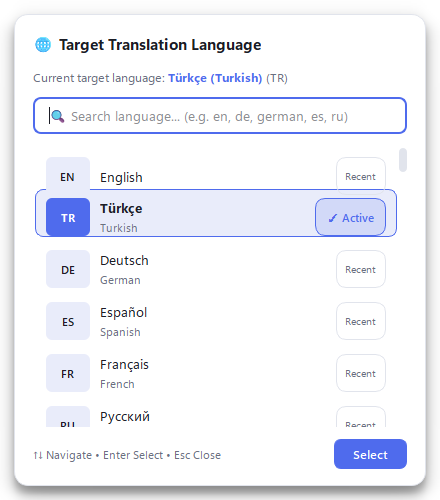
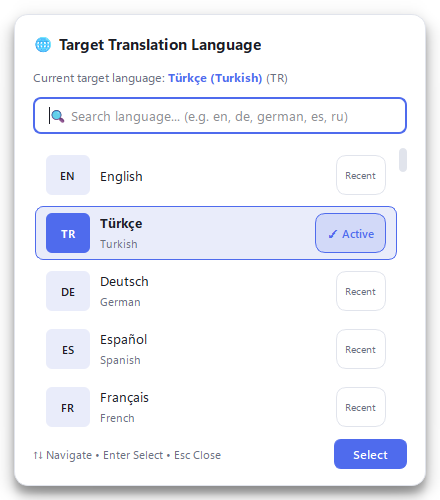
Fix language picker item alignment and RTL label alignment

diff --git a/src/aitranslator/ui/language_picker.py b/src/aitranslator/ui/language_picker.py
@@ -3,7 +3,7 @@ from __future__ import annotations
 
 from typing import Callable
 
-from PySide6.QtCore import QPoint, Qt, Signal
+from PySide6.QtCore import QPoint, QSize, Qt, Signal
 from PySide6.QtGui import QColor, QCursor, QGuiApplication, QKeyEvent
 from PySide6.QtWidgets import (
     QApplication, QFrame, QGraphicsDropShadowEffect, QHBoxLayout, QLabel,
@@ -59,9 +59,9 @@ class LanguageItemWidget(QWidget):
         c = _DARK if is_dark() else _LIGHT
 
         layout = QHBoxLayout(self)
-        layout.setContentsMargins(10, 7, 10, 7)
+        layout.setContentsMargins(10, 6, 10, 6)
         layout.setSpacing(10)
-        self.setMinimumHeight(52)
+        self.setFixedHeight(52)
 
         # Dil Kodu Rozeti (örn. [TR], [EN], [DE])
         self.badge = QLabel(code.upper())
@@ -100,10 +100,16 @@ class LanguageItemWidget(QWidget):
             primary_name = native_name
             sub_text = en_name if native_name != en_name else ""
 
+        text_align = (
+            Qt.AlignmentFlag.AlignRight if is_rtl() else Qt.AlignmentFlag.AlignLeft
+        ) | Qt.AlignmentFlag.AlignVCenter
+
         self.lbl_name = QLabel(primary_name)
+        self.lbl_name.setAlignment(text_align)
         self.lbl_name.setStyleSheet(f"font-weight: {'700' if is_active else '500'}; font-size: 10pt; color: {c['text']};")
 
         self.lbl_sub = QLabel(sub_text)
+        self.lbl_sub.setAlignment(text_align)
         self.lbl_sub.setStyleSheet(f"color: {c['muted']}; font-size: 8.5pt;")
 
         name_col.addWidget(self.lbl_name)
@@ -296,7 +302,7 @@ class LanguagePickerWindow(QWidget):
             }}
             QListWidget::item {{
                 border-radius: 8px;
-                padding: 1px 0px;
+                padding: 0px;
                 border: 1px solid transparent;
             }}
             QListWidget::item:hover {{
@@ -375,14 +381,14 @@ class LanguagePickerWindow(QWidget):
 
         selected_row = 0
         for i, (code, tr, native, is_recent) in enumerate(items_to_show):
-            item = QListWidgetItem(self.list_widget)
+            item = QListWidgetItem()
             item.setData(Qt.ItemDataRole.UserRole, code)
             is_active = (code == target)
             if is_active and not query.strip():
                 selected_row = i
 
             widget = LanguageItemWidget(code, tr, native, is_active=is_active, is_recent=is_recent)
-            item.setSizeHint(widget.sizeHint())
+            item.setSizeHint(QSize(0, widget.height() + 2))
             self.list_widget.addItem(item)
             self.list_widget.setItemWidget(item, widget)
 
